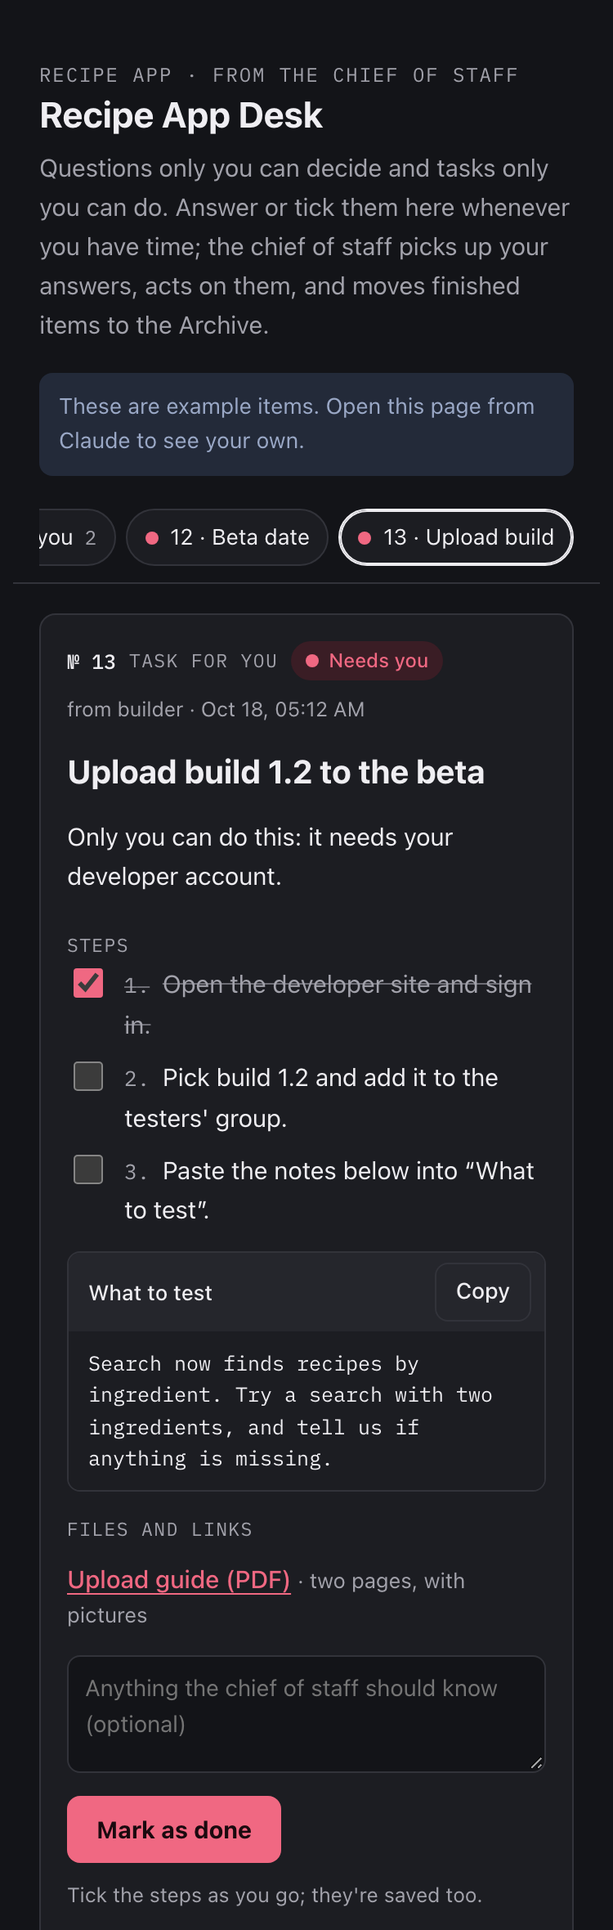
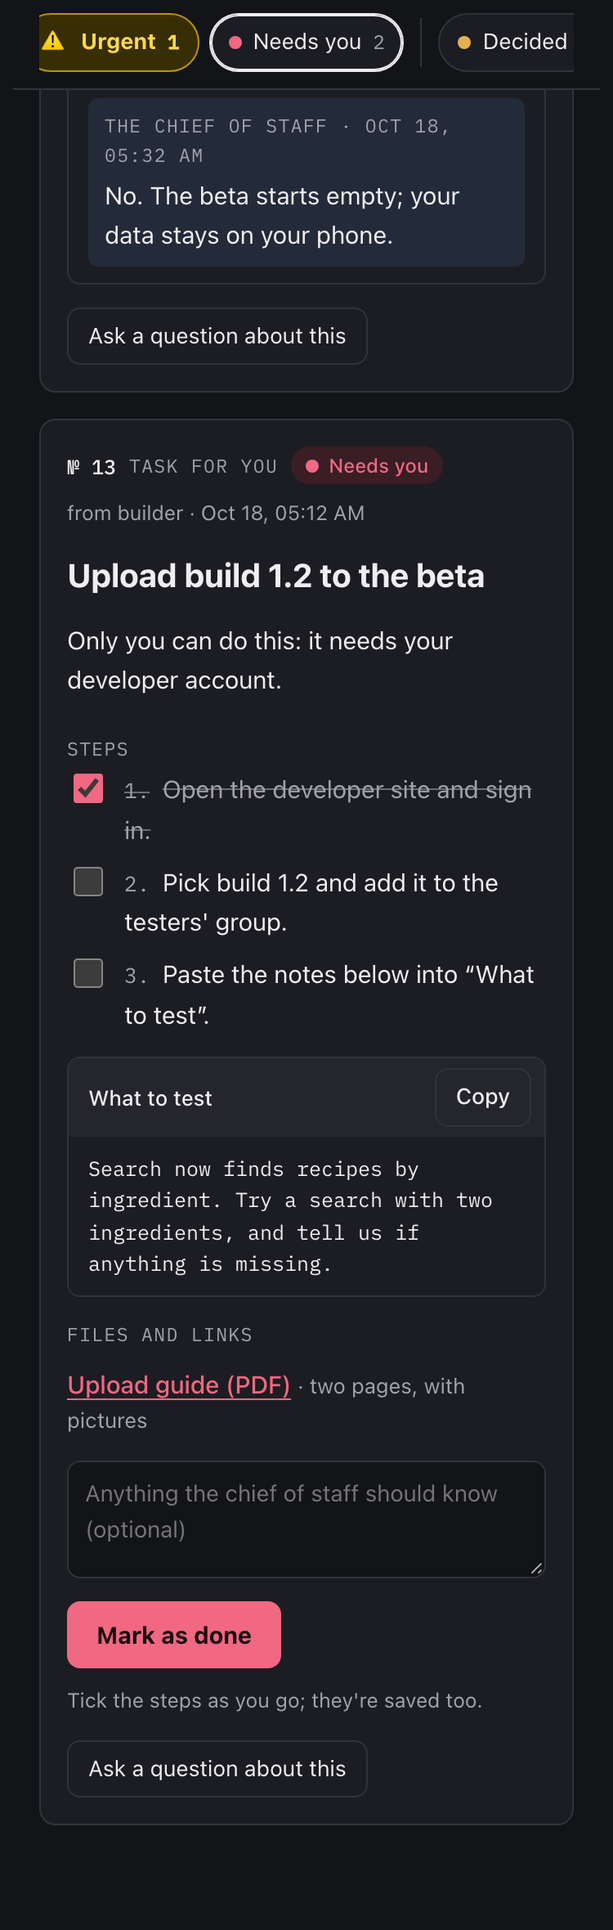
owner-desk: Urgent tab, group tabs only, and a tab bar that follows
Brought over from a desk in real use:
- A yellow Urgent tab, shown only when an item has `urgent: true`, and a
  "do these first" box at the top of the Overview.
- The tab bar now holds only the groups (Overview, Urgent, Needs you,
  Decided, Later, Archive). A link to one item (#<id>) or a row on the
  Overview opens its group's tab and scrolls to its card.
- The open tab glides to the middle of the tab bar.
- The page never scrolls sideways during the slide-in, and a swipe that
  starts on a copy box is left alone.

`short` is gone from items (it only labelled the per-item tabs), and the
examples gain an urgent item.

diff --git a/skills/owner-desk/assets/desk.html b/skills/owner-desk/assets/desk.html
@@ -4,13 +4,14 @@
 <link rel="preconnect" href="https://fonts.gstatic.com" crossorigin>
 <link rel="stylesheet" href="https://fonts.googleapis.com/css2?family=IBM+Plex+Mono:wght@400;500&display=swap">
 <style>
-/* Layout: a desk. A sticky rail of tabs (the groups, plus one per item that needs you) above one open slip at a time. Swipe sideways to change tabs. */
+/* Layout: a desk. A sticky rail of group tabs (Urgent only when something is) above the open cards. Swipe sideways to change tabs. */
 :root{
   --bg:#F4F3F1; --surface:#FFFFFF; --ink:#1B1C20; --muted:#63646C; --line:#E0DED9;
   --accent:#B8324A; --accent-soft:#F7E2E6; --on-accent:#FFFFFF;
   --wait:#8A600F; --wait-soft:#F5EAD3;
   --ok:#2A6F52; --ok-soft:#DDEFE5;
   --later:#56627C; --later-soft:#E5E9F1;
+  --urgent:#6E5200; --urgent-soft:#FFF1B0; --urgent-line:#E2B714;
   --code-bg:#F0EEEA;
   --font-ui:-apple-system,BlinkMacSystemFont,"Segoe UI","Hiragino Sans","PingFang SC","Noto Sans","Noto Sans CJK SC",system-ui,sans-serif;
   --font-mono:"IBM Plex Mono",ui-monospace,"SF Mono",Menlo,monospace;
@@ -22,6 +23,7 @@
   --wait:#E3B04F; --wait-soft:#33290F;
   --ok:#62C497; --ok-soft:#16301F;
   --later:#9AA8C6; --later-soft:#232A39;
+  --urgent:#FFD84D; --urgent-soft:#382E06; --urgent-line:#B8950C;
   --code-bg:#25262C; color-scheme:dark;
 }}
 :root[data-theme="dark"]{
@@ -30,6 +32,7 @@
   --wait:#E3B04F; --wait-soft:#33290F;
   --ok:#62C497; --ok-soft:#16301F;
   --later:#9AA8C6; --later-soft:#232A39;
+  --urgent:#FFD84D; --urgent-soft:#382E06; --urgent-line:#B8950C;
   --code-bg:#25262C; color-scheme:dark;
 }
 *{box-sizing:border-box}
@@ -51,6 +54,18 @@ h1{font-size:26px;line-height:1.2;margin:0;font-weight:700;text-wrap:balance}
 .dot{width:8px;height:8px;border-radius:50%;flex:0 0 8px;background:var(--muted)}
 .dot.needs{background:var(--accent)} .dot.wait{background:var(--wait)} .dot.ok{background:var(--ok)} .dot.later{background:var(--later)}
 .count{font-family:var(--font-mono);font-size:12px;color:var(--muted)}
+.tab.urgent{background:var(--urgent-soft);border-color:var(--urgent-line);color:var(--urgent);font-weight:700}
+.tab.urgent .count{color:var(--urgent)}
+.tab.urgent[aria-selected="true"]{border-color:var(--urgent);box-shadow:inset 0 0 0 1px var(--urgent)}
+.dot.urgent{background:var(--urgent-line)}
+.pill.urgent{background:var(--urgent-soft);color:var(--urgent);font-weight:700} .pill.urgent .dot{display:none}
+.slip.is-urgent{border-color:var(--urgent-line);box-shadow:inset 4px 0 0 var(--urgent-line)}
+.urgent-box{background:var(--urgent-soft);border:1px solid var(--urgent-line);border-radius:var(--r);padding:14px 18px;color:var(--urgent)}
+.urgent-box .sec-label{color:var(--urgent);font-weight:500}
+.urgent-box .ov-row{border-top-color:color-mix(in srgb,var(--urgent-line) 45%,transparent)}
+.urgent-box .ov-row .t{color:var(--ink)}
+/* A card opened from a link or from the Overview scrolls to just below the sticky rail. */
+article.slip,details.arch{scroll-margin-top:72px}
 
 main{padding-top:18px;display:flex;flex-direction:column;gap:16px}
 .slip{background:var(--surface);border:1px solid var(--line);border-radius:var(--r);padding:20px 20px 18px;display:flex;flex-direction:column;gap:14px;min-width:0}
@@ -112,6 +127,8 @@ ol.steps li.done label{color:var(--muted);text-decoration:line-through;text-deco
 .reach{font-size:12.5px;color:var(--muted)}
 .swipe-tip{display:none;margin-top:-8px}
 @media (hover: none) and (pointer: coarse){ .swipe-tip{display:block} }
+/* The slide-in moves the page sideways for a moment; clip it so the page never scrolls sideways (clip keeps the sticky rail working). */
+.wrap{overflow-x:clip}
 .divider{display:flex;align-items:center;gap:10px;color:var(--muted);font-size:12.5px;margin-top:6px}
 .divider::before,.divider::after{content:"";flex:1;height:1px;background:var(--line)}
 .divider span{flex:0 1 auto;text-align:center}
@@ -152,24 +169,28 @@ details.arch[open] summary{margin-bottom:10px}
   // Shown only when the page is opened outside Claude (a plain browser, a preview).
   const DEMO = [
     { id: "q12", kind: "decision", status: "open", num: 12, priority: 1, from: "builder", created: "2026-10-18T09:10:00Z",
-      title: "Open the beta to testers this Friday?", short: "Beta date",
+      title: "Open the beta to testers this Friday?",
       body: ["Every fix has passed review, and the notes for testers are written."],
       recommendation: "Yes. Waiting a week adds nothing we know of.", choices: ["Yes", "Next week"],
       asks: [{ q: "Will testers see my own data?", at: "2026-10-18T09:30:00Z", via: "comment",
                a: "No. The beta starts empty; your data stays on your phone.", aAt: "2026-10-18T09:32:00Z" }] },
+    { id: "q16", kind: "decision", status: "open", urgent: true, num: 16, priority: 1, from: "tester", created: "2026-10-18T09:40:00Z",
+      title: "Stop build 1.1 for testers? It crashes when a saved list is opened.",
+      body: ["Three testers hit it this morning. Build 1.2 has the fix and waits for your upload (№ 13)."],
+      recommendation: "Stop it now. Testers keep their lists, and they get 1.2 as soon as it's uploaded.", choices: ["Stop it now", "Leave it running"] },
     { id: "t-upload", kind: "task", status: "open", num: 13, priority: 2, from: "builder", created: "2026-10-18T09:12:00Z",
-      title: "Upload build 1.2 to the beta", short: "Upload build",
+      title: "Upload build 1.2 to the beta",
       body: ["Only you can do this: it needs your developer account."],
       steps: ["Open the developer site and sign in.", "Pick build 1.2 and add it to the testers' group.", "Paste the notes below into “What to test”."],
       stepsDone: [0],
       copies: [{ label: "What to test", text: "Search now finds recipes by ingredient. Try a search with two ingredients, and tell us if anything is missing." }],
       links: [{ label: "Upload guide (PDF)", url: "#", note: "two pages, with pictures" }] },
     { id: "q14", kind: "decision", status: "answered", num: 14, priority: 3, from: "reviewer", created: "2026-10-18T08:40:00Z",
-      title: "Keep the free plan at three saved lists?", short: "Free plan",
+      title: "Keep the free plan at three saved lists?",
       recommendation: "Keep three. Raising it later is easy; lowering it isn't.", choices: ["Keep three", "Raise to five", "No limit"],
       answer: { choice: "Keep three", note: "", at: "2026-10-18T09:05:00Z" } },
     { id: "q15", kind: "decision", status: "open", later: true, num: 15, from: "feedback", created: "2026-10-17T16:00:00Z",
-      title: "Charge for sync between devices, after version 2?", short: "Paid sync",
+      title: "Charge for sync between devices, after version 2?",
       body: ["Two testers asked for it. Nothing waits on this until version 2."],
       recommendation: "Decide after the beta, with the testers' numbers.", choices: ["Yes", "No", "Decide later"] },
     { id: "q11", kind: "decision", status: "archived", num: 11, from: "builder", created: "2026-10-17T10:00:00Z",
@@ -204,6 +225,7 @@ details.arch[open] summary{margin-bottom:10px}
       ? { cls: "wait", text: `Done by you · ${AGENT} checking`, short: "Done by you" }
       : { cls: "wait", text: `Answered · ${AGENT} acting`, short: "Answered" };
     if (it.later) return { cls: "later", text: "For later", short: "For later" };
+    if (it.urgent) return { cls: "urgent", text: "⚠ Urgent", short: "⚠ Urgent" };
     return { cls: "needs", text: "Needs you", short: "Needs you" };
   }
   function groups(){
@@ -211,16 +233,17 @@ details.arch[open] summary{margin-bottom:10px}
       const ra = a.status === "answered" ? 1 : 0, rb = b.status === "answered" ? 1 : 0;
       return ra - rb || (a.priority || 5) - (b.priority || 5) || byTime(a, b);
     });
-    const needs = active.filter(it => it.status !== "answered");
+    const open = active.filter(it => it.status !== "answered");
+    const urgent = open.filter(it => it.urgent), needs = open.filter(it => !it.urgent);
     const decided = active.filter(it => it.status === "answered");
     const later = S.items.filter(isLater).sort(byTime);
     const archived = S.items.filter(isArchived).sort((a, b) => String(b.archived || "").localeCompare(String(a.archived || "")));
-    return { active, needs, decided, later, archived };
+    return { active, urgent, needs, decided, later, archived };
   }
-  const GROUP_TABS = ["overview", "needs", "decided", "later", "archive"];
-  // The group tab an item lives under, for an item that has no tab of its own.
-  const groupOf = (it) => isArchived(it) ? "archive" : it.later ? "later" : it.status === "answered" ? "decided" : "needs";
-  const label = (it) => (it.num ? it.num + " · " : "") + (it.short || it.title);
+  const GROUP_TABS = ["overview", "urgent", "needs", "decided", "later", "archive"];
+  // The tab an item's card lives on; a link to an item (#<id>) opens that tab and scrolls to the card.
+  const groupOf = (it) => !it ? "overview" : isArchived(it) ? "archive" : it.later ? "later" : it.status === "answered" ? "decided" : it.urgent ? "urgent" : "needs";
+  const reduceMotion = () => { try { return matchMedia("(prefers-reduced-motion: reduce)").matches; } catch(e){ return false; } };
   const openAsks = (it) => (it.asks || []).filter(a => !a.a).length;
 
   function renderTabs(g){
@@ -228,15 +251,24 @@ details.arch[open] summary{margin-bottom:10px}
     const tab = (id, text, dot, extra) => `<button class="tab" role="tab" aria-selected="${S.tab === id}" data-tab="${esc(id)}">${dot ? `<span class="dot ${dot}"></span>` : ""}<span class="t">${esc(text)}</span>${extra || ""}</button>`;
     const count = (n) => `<span class="count">${n}</span>`;
     t.push(tab("overview", "Overview", "", ""));
+    t.push(`<span class="tab-sep" aria-hidden="true"></span>`);
+    if (g.urgent.length) t.push(`<button class="tab urgent" role="tab" aria-selected="${S.tab === "urgent"}" data-tab="urgent"><span aria-hidden="true">⚠</span><span class="t">Urgent</span>${count(g.urgent.length)}</button>`);
     t.push(tab("needs", "Needs you", "needs", count(g.needs.length)));
-    g.needs.forEach(it => t.push(tab(it.id, label(it), statusOf(it).cls)));
     t.push(`<span class="tab-sep" aria-hidden="true"></span>`);
     t.push(tab("decided", "Decided", "wait", count(g.decided.length)));
     t.push(tab("later", "Later", "later", count(g.later.length)));
     t.push(tab("archive", "Archive", "ok", count(g.archived.length)));
-    $("#tabs").innerHTML = t.join("");
-    const sel = $("#tabs .tab[aria-selected='true']");
-    if (sel && sel.scrollIntoView) sel.scrollIntoView({ block: "nearest", inline: "nearest" });
+    const rail = $("#tabs"), kept = rail.scrollLeft;
+    rail.innerHTML = t.join("");
+    // Keep the open tab as near the middle of the rail as it can go; glide there when the tab changes.
+    if (S.railTab !== S.tab){ const glide = S.railTab != null; S.railTab = S.tab; if (glide) setTimeout(() => centerTab(true), 0); else centerTab(false); }
+    else rail.scrollLeft = kept;
+  }
+  function centerTab(glide){
+    const rail = $("#tabs"), sel = rail.querySelector(".tab[aria-selected='true']");
+    if (!sel) return;
+    const left = rail.scrollLeft + sel.getBoundingClientRect().left - rail.getBoundingClientRect().left - (rail.clientWidth - sel.offsetWidth) / 2;
+    rail.scrollTo({ left: Math.max(0, left), behavior: glide && !reduceMotion() ? "smooth" : "auto" });
   }
 
   function bodyHtml(it){
@@ -300,7 +332,7 @@ details.arch[open] summary{margin-bottom:10px}
   function slip(it){
     const st = statusOf(it);
     const readOnly = isArchived(it);
-    return `<article class="slip ${it.status === "answered" ? "answered" : ""}" data-item="${esc(it.id)}" aria-labelledby="h-${esc(it.id)}">
+    return `<article class="slip ${it.status === "answered" ? "answered" : ""} ${st.cls === "urgent" ? "is-urgent" : ""}" data-item="${esc(it.id)}" aria-labelledby="h-${esc(it.id)}">
       <div class="meta">${it.num ? `<span class="num">№ ${esc(it.num)}</span>` : ""}<span class="kind">${it.kind === "task" ? "Task for you" : "Decision"}</span><span class="pill ${st.cls}"><span class="dot ${st.cls}"></span>${esc(st.text)}</span><span>${it.from ? "from " + esc(it.from) + " · " : ""}${esc(fmt(it.created))}</span></div>
       <h2 id="h-${esc(it.id)}">${esc(it.title)}</h2>
       ${bodyHtml(it)}
@@ -319,12 +351,13 @@ details.arch[open] summary{margin-bottom:10px}
     const und = g.needs, dec = g.decided;
     const tile = (id, cls, n, text) => `<button class="tile ${cls}" data-tab="${id}"><div class="n">${n}</div><div class="l">${text}</div></button>`;
     const tiles = `<div class="tiles">${tile("needs", "needs", und.length, "Need you")}${tile("decided", "wait", dec.length, "With " + esc(AGENT))}${tile("later", "", g.later.length, "For later")}${tile("archive", "", g.archived.length, "Archived")}</div>`;
-    const row = (it) => { const st = statusOf(it); const q = openAsks(it); return `<button class="ov-row" data-tab="${esc(it.id)}"><span class="dot ${st.cls}"></span><span class="t">${it.num ? `<span class="num">№ ${esc(it.num)}</span> · ` : ""}${esc(it.title)}</span>${q ? `<span class="qchip">question asked</span>` : `<span class="pill ${st.cls}">${esc(st.short)}</span>`}</button>`; };
-    const list = (und.length ? `<div class="slip overview"><span class="sec-label">Needs you</span><div class="list">${und.map(row).join("")}</div></div>` : `<div class="calm">Nothing needs you.</div>`)
+    const row = (it) => { const st = statusOf(it); const q = openAsks(it); return `<button class="ov-row" data-act="open" data-id="${esc(it.id)}"><span class="dot ${st.cls}"></span><span class="t">${it.num ? `<span class="num">№ ${esc(it.num)}</span> · ` : ""}${esc(it.title)}</span>${q ? `<span class="qchip">question asked</span>` : `<span class="pill ${st.cls}">${esc(st.short)}</span>`}</button>`; };
+    const urgentBox = g.urgent.length ? `<div class="urgent-box overview"><span class="sec-label">⚠ Urgent · do these first</span><div class="list">${g.urgent.map(row).join("")}</div></div>` : "";
+    const list = (und.length ? `<div class="slip overview"><span class="sec-label">Needs you</span><div class="list">${und.map(row).join("")}</div></div>` : g.urgent.length ? "" : `<div class="calm">Nothing needs you.</div>`)
       + (dec.length ? `<div class="divider"><span>Decided · ${esc(AGENT)} is acting on these</span></div><div class="slip overview decided"><div class="list">${dec.map(row).join("")}</div></div>` : "");
     const asked = g.later.filter(i => openAsks(i));
     const askedList = asked.length ? `<div class="slip overview"><span class="sec-label">Questions you asked on later items</span><div class="list">${asked.map(row).join("")}</div></div>` : "";
-    return tiles + list + askedList + `<p class="reach">${esc(reachHint())}</p><p class="reach swipe-tip">Swipe left or right to move between tabs.</p>`;
+    return urgentBox + tiles + list + askedList + `<p class="reach">${esc(reachHint())}</p><p class="reach swipe-tip">Swipe left or right to move between tabs.</p>`;
   }
   function render(){
     const main = $("#main");
@@ -337,13 +370,16 @@ details.arch[open] summary{margin-bottom:10px}
     const g = groups();
     const ids = new Set(S.items.map(i => i.id));
     if (!S.tab || (!GROUP_TABS.includes(S.tab) && !ids.has(S.tab))) S.tab = "overview";
+    if (!GROUP_TABS.includes(S.tab)){ S.focus = S.tab; S.tab = groupOf(find(S.tab)); store("desk.tab", S.tab); try { history.replaceState(null, "", "#" + S.tab); } catch(e){} }
+    if (S.tab === "urgent" && !g.urgent.length) S.tab = "needs";
     renderTabs(g);
     let html = "";
     if (S.tab === "overview") html = overview(g);
+    else if (S.tab === "urgent") html = `<p class="note" style="margin:0">⚠ These can't wait. Each one moves to Decided when you answer it.</p>` + g.urgent.map(slip).join("");
     else if (S.tab === "needs"){
       html = g.needs.length
-        ? `<p class="note" style="margin:0">Everything waiting for you, one after another. Answer in any order; each one moves to Decided when you do.</p>` + g.needs.map(slip).join("")
-        : `<div class="calm">Nothing needs you.</div>`;
+        ? `<p class="note" style="margin:0">Everything ${g.urgent.length ? "else " : ""}waiting for you, one after another. Answer in any order; each one moves to Decided when you do.</p>` + g.needs.map(slip).join("")
+        : `<div class="calm">Nothing ${g.urgent.length ? "else " : ""}needs you.</div>`;
     }
     else if (S.tab === "decided"){
       html = g.decided.length
@@ -359,8 +395,18 @@ details.arch[open] summary{margin-bottom:10px}
         : `<div class="calm">Nothing parked for later.</div>`;
     }
     else if (S.tab === "archive") html = g.archived.length ? g.archived.map(it => `<details class="arch"><summary><span class="dot ok"></span><span class="t">${it.num ? `<span class="num">№ ${esc(it.num)}</span> · ` : ""}${esc(it.title)}</span><span class="note">${esc(fmt(it.archived))}</span></summary>${slip(it)}</details>`).join("") : `<p class="note">Finished items will appear here.</p>`;
-    else { const it = find(S.tab); html = it ? slip(it) : ""; }
     main.innerHTML = html;
+    if (S.focus){ const id = S.focus; S.focus = null; focusItem(id); }
+  }
+  function focusItem(id){
+    const art = document.querySelector(`#main article[data-item="${CSS.escape(id)}"]`);
+    if (!art) return;
+    const arch = art.closest("details.arch"); if (arch) arch.open = true;
+    (arch || art).scrollIntoView({ block: "start" });
+  }
+  function openItem(id){
+    const it = find(id); if (!it) return;
+    setTab(groupOf(it)); focusItem(id);
   }
 
   let toastTimer = null;
@@ -376,7 +422,7 @@ details.arch[open] summary{margin-bottom:10px}
   function stepTab(dir){
     const ids = [...document.querySelectorAll("#tabs .tab")].map(b => b.dataset.tab);
     let i = ids.indexOf(S.tab);
-    if (i < 0){ const it = find(S.tab); i = ids.indexOf(it ? groupOf(it) : "overview"); }
+    if (i < 0) i = ids.indexOf("overview");
     const next = ids[i + dir];
     if (!next) return;
     setTab(next);
@@ -386,6 +432,7 @@ details.arch[open] summary{margin-bottom:10px}
     main.classList.add(dir > 0 ? "from-right" : "from-left");
   }
   $("#main").addEventListener("animationend", (ev) => { if (ev.target === ev.currentTarget) ev.currentTarget.classList.remove("from-right", "from-left"); });
+  addEventListener("resize", () => centerTab(false));
   let swipe = null;
   document.addEventListener("touchstart", (ev) => {
     swipe = null;
@@ -394,7 +441,7 @@ details.arch[open] summary{margin-bottom:10px}
     const p = ev.touches[0], edge = 24;
     // Leave the screen edges to the system's back gesture, and leave alone what scrolls sideways or takes typing.
     if (p.clientX < edge || p.clientX > window.innerWidth - edge) return;
-    if (ev.target.closest && ev.target.closest(".rail, pre, textarea, input, select, [contenteditable]")) return;
+    if (ev.target.closest && ev.target.closest(".rail, .copybox, pre, textarea, input, select, [contenteditable]")) return;
     swipe = { x: p.clientX, y: p.clientY, at: Date.now() };
   }, { passive: true });
   document.addEventListener("touchend", (ev) => {
@@ -473,6 +520,7 @@ details.arch[open] summary{margin-bottom:10px}
     if (!el) return;
     if (el.dataset.tab){ setTab(el.dataset.tab); return; }
     const act = el.dataset.act, id = el.dataset.id, it = id ? find(id) : null;
+    if (act === "open"){ openItem(id); return; }
     if (act === "ask-toggle"){
       S.askOpen[id] = !S.askOpen[id];
       if (S.askOpen[id]) refreshReach();

diff --git a/docs/index.html b/docs/index.html
@@ -258,7 +258,7 @@ section{display:flex;flex-direction:column;gap:22px}
       </div>
       <div class="change">
         <p class="before"><span class="label">Without</span>A task only you can do, such as an upload or a sign-in, is a long paragraph you have to scroll back to find.</p>
-        <div class="after"><span class="tag desk">owner-desk</span><p>It gets its own tab, with steps to tick, text to copy and the guide attached.</p></div>
+        <div class="after"><span class="tag desk">owner-desk</span><p>It gets its own card, with steps to tick, text to copy and the guide attached.</p></div>
       </div>
       <div class="change">
         <p class="before"><span class="label">Without</span>You answer when the agent asks, not when you have time, and answered questions pile up with open ones.</p>
@@ -328,17 +328,15 @@ section{display:flex;flex-direction:column;gap:22px}
         <h3>A board for what only you can decide or do</h3>
         <p>A live page with its own small database. The agent posts items to it; you answer on your phone whenever you have time.</p>
         <ul>
-          <li>One tab per item, with a recommended answer and buttons.</li>
+          <li>Each item has a recommended answer and buttons.</li>
           <li>Tasks come with steps to tick, text to copy, links and files.</li>
           <li>Ask a question on any item, and the answer shows on the same tab.</li>
-          <li>Needs you, Decided, Later and Archive tabs keep what still needs you apart from everything else. Swipe sideways to move between them.</li>
+          <li>Needs you, Decided, Later and Archive tabs keep what still needs you apart from everything else, and an Urgent tab appears when something can't wait. Swipe sideways to move between them.</li>
         </ul>
         <div class="mock" aria-label="Example desk item">
           <div class="rail">
             <span class="tab">Overview</span>
-            <span class="tab"><span class="dot needs" aria-hidden="true"></span>Needs you 2</span>
-            <span class="tab on"><span class="dot needs" aria-hidden="true"></span>12 · Beta date</span>
-            <span class="tab"><span class="dot needs" aria-hidden="true"></span>13 · Upload build</span>
+            <span class="tab on"><span class="dot needs" aria-hidden="true"></span>Needs you 2</span>
             <span class="tab"><span class="dot wait" aria-hidden="true"></span>Decided 1</span>
             <span class="tab"><span class="dot later" aria-hidden="true"></span>Later 2</span>
             <span class="tab"><span class="dot ok" aria-hidden="true"></span>Archive 9</span>

diff --git a/skills/owner-desk/SKILL.md b/skills/owner-desk/SKILL.md
@@ -1,11 +1,11 @@
 ---
 name: owner-desk
-description: Give the human owner a live board, a Claude artifact with its own small database, for everything only they can decide or do. Each decision or task gets its own tab, with a recommended answer, answer buttons, steps to tick, text to copy and files; the owner answers from their phone whenever they like, the answer wakes the agent through a comment, and the agent acts and archives the item. Use this whenever an agent has several open questions or owner-only tasks (approvals, uploads, sign-ins, purchases, account changes), when the owner says questions get lost or buried in chat, when they ask for a dashboard, inbox, to-do board, decision board or "desk" for what's waiting on them, or when a chief-of-staff or manager session needs a home for its "waiting for the owner" list.
+description: Give the human owner a live board, a Claude artifact with its own small database, for everything only they can decide or do. Each decision or task gets its own card, with a recommended answer, answer buttons, steps to tick, text to copy and files; the owner answers from their phone whenever they like, the answer wakes the agent through a comment, and the agent acts and archives the item. Use this whenever an agent has several open questions or owner-only tasks (approvals, uploads, sign-ins, purchases, account changes), when the owner says questions get lost or buried in chat, when they ask for a dashboard, inbox, to-do board, decision board or "desk" for what's waiting on them, or when a chief-of-staff or manager session needs a home for its "waiting for the owner" list.
 ---
 
 # Owner desk
 
-Questions in chat get buried, and the owner has to answer when the agent asks, not when they have time. The desk moves them out of the chat into a board: a Needs you tab with every open item (each also gets a tab of its own), a Decided tab for answered ones, a Later tab for what can wait, and an Archive for what's done. On a phone or iPad, the owner swipes sideways to move between tabs. The owner answers there; you read the answers, act, and archive.
+Questions in chat get buried, and the owner has to answer when the agent asks, not when they have time. The desk moves them out of the chat into a board: a Needs you tab with every open item, a yellow Urgent tab only when something can't wait, a Decided tab for answered ones, a Later tab for what can wait, and an Archive for what's done. On a phone or iPad, the owner swipes sideways to move between tabs. The owner answers there; you read the answers, act, and archive.
 
 ## What this needs
 
@@ -72,9 +72,9 @@ Each item is one document in the collection `items`. Its document id is its hand
 | `kind` | you | `"decision"` or `"task"` |
 | `status` | both | `"open"`; the page sets `"answered"`; you set `"archived"` |
 | `later` | you | `true` parks it on the Later tab |
+| `urgent` | you | `true` puts it on a yellow Urgent tab and at the top of the Overview. Only for what can't wait: a deadline today, or something broken for users |
 | `num` | you | a running number, the same one you use in chat; never reused |
 | `title` | you | the question itself, answerable with the choices, or the task as an action |
-| `short` | you | the tab's label, two or three words |
 | `body`, `bullets` | you | short paragraphs and points: why it matters, what it affects |
 | `recommendation` | you | your answer first, then the reason, in one or two sentences |
 | `choices` | you | two to four answers; defaults to Yes / No |
@@ -89,12 +89,12 @@ Each item is one document in the collection `items`. Its document id is its hand
 | `thread` | page | the comment thread the page uses for this item; leave it alone |
 | `outcome`, `archived` | you | what happened, in one line; when you archived it |
 
-`assets/example-items.json` holds six made-up items, as `ArtifactData` `batch` writes. Use them to try a board, never on the owner's real one.
+`assets/example-items.json` holds seven made-up items, as `ArtifactData` `batch` writes. Use them to try a board, never on the owner's real one.
 
 ## Post items
 
 - Add new items with `ArtifactData`. Use `set` for a new document, and `batch` for more than two. Never republish the page to change items.
-- Then say in chat what you added, with a link to each item's tab: `<board url>#<doc id>`.
+- Then say in chat what you added, with a link to each item: `<board url>#<doc id>` opens its tab and scrolls to it.
 - If you also work from a chat list of open questions (as the chief of staff does), keep both the same: the same number, the same words.
 - Write each item so it stands on its own: what is being decided, what changes either way, and what you recommend.
 - A task lists the exact steps, the text to paste in `copies`, and the guide in `links`.

diff --git a/skills/owner-desk/README.md b/skills/owner-desk/README.md
@@ -19,9 +19,11 @@ not when you have time.
 
 ## How the desk works
 
-- **A Needs you tab, and one tab per item.** *Needs you* shows everything
-  waiting for you, one after another; each item also has its own tab. A
-  *decision* has a recommended answer and buttons.
+- **A tab for each group:** *Needs you*, *Decided*, *Later* and
+  *Archive*, each showing its items one after another. A yellow *Urgent*
+  tab appears only when something can't wait, and the Overview starts
+  with it. A link to one item opens its tab and scrolls to it.
+- **A *decision*** has a recommended answer and buttons.
   A *task* (an upload, a sign-in) has steps to tick, text to copy, and the
   guide attached.
 - **You answer whenever you like.** Your answer is saved and also sent to
@@ -36,7 +38,7 @@ not when you have time.
 - **Ask about any item** ("what happens if I say no?"), and the answer
   shows on the same tab.
 - **Swipe left or right** to move between tabs, handy on an iPad or a
-  phone.
+  phone. The tab bar follows, keeping the open tab in the middle.
 
 <p>
   <img src="screenshots/decision-phone-light.png" alt="A decision on a phone: the question, the recommended answer, Yes and Next week buttons, and an earlier question answered" width="300">
